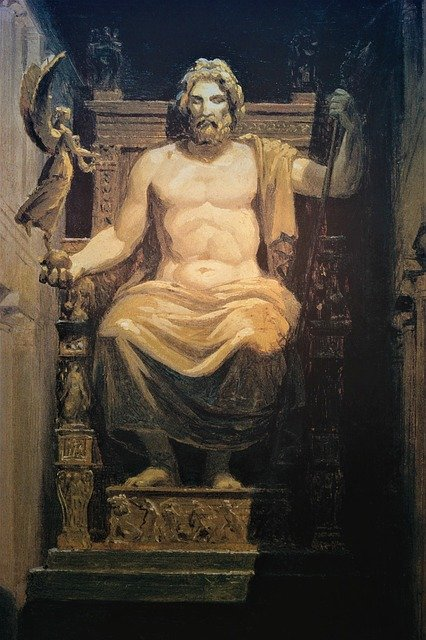
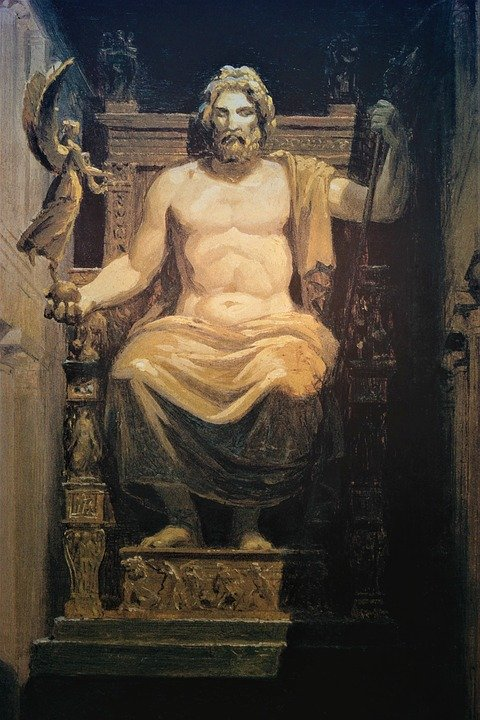
Zeus & Olympus - Different sizes

Changed region(s): [[0.5493, 0.125, 0.5798, 0.1562]]

diff --git a/Assignment/olympians.html b/Assignment/olympians.html
@@ -56,7 +56,13 @@
                     Facilisis volutpat est velit egestas dui id ornare arcu. Turpis cursus in hac habitasse platea dictumst quisque sagittis. In dictum non consectetur a erat nam. Nec ultrices dui sapien eget mi proin sed libero. Posuere urna nec tincidunt praesent semper feugiat nibh sed. Laoreet id donec ultrices tincidunt arcu. Venenatis urna cursus eget nunc. Nec nam aliquam sem et tortor consequat. Eleifend donec pretium vulputate sapien nec sagittis. Sociis natoque penatibus et magnis dis parturient montes nascetur. Molestie nunc non blandit massa. Aenean vel elit scelerisque mauris pellentesque pulvinar pellentesque. Aliquet sagittis id consectetur purus. Sit amet nisl purus in mollis nunc sed id.
                 </p>
                 <figure>
-                    <img src="media/olympians/zeus.jpg" alt="The god Zeus sitting on a throne holding an eagle in his hand" />
+                    <picture>
+                        <source media="(min-width: 45em)" srcset="media/olympians/zeus.webp" type="image/webp" />
+                        <source media="(min-width: 45em)" srcset="media/olympians/zeus.jpeg" />
+                        <source srcset="media/olympians/zeus_med.webp" type="image/webp" />
+                        <source srcset="media/olympians/zeus_med.jpg" />
+                        <img src="media/olympians/zeus.jpg" alt="The god Zeus sitting on a throne holding an eagle in his hand" />
+                    </picture>
                 </figure>
             </article>
 

diff --git a/Assignment/index.html b/Assignment/index.html
@@ -42,10 +42,10 @@
                 <h1>The Beginning</h1>
                 <figure>
                     <picture>
-                        <source media="(min-width: 70em)" srcset="media/home/chaos.webp" type="image/webp" />
-                        <source media="(min-width: 70em)" srcset="media/home/chaos.jpeg" />
-                        <source media="(min-width: 50em)" srcset="media/home/chaos_med.webp" type="image/webp" />
-                        <source media="(min-width: 50em)" srcset="media/home/chaos_med.jpg" />
+                        <source media="(min-width: 90em)" srcset="media/home/chaos.webp" type="image/webp" />
+                        <source media="(min-width: 90em)" srcset="media/home/chaos.jpeg" />
+                        <source media="(min-width: 45em)" srcset="media/home/chaos_med.webp" type="image/webp" />
+                        <source media="(min-width: 45em)" srcset="media/home/chaos_med.jpg" />
                         <source srcset="media/home/chaos_small.webp" type="image/webp" />
                         <source srcset="media/home/chaos_small.jpg" />
                         <img src="media/home/chaos.jpeg" alt="An oil painting of the primordial deities emerging from chaos" />
